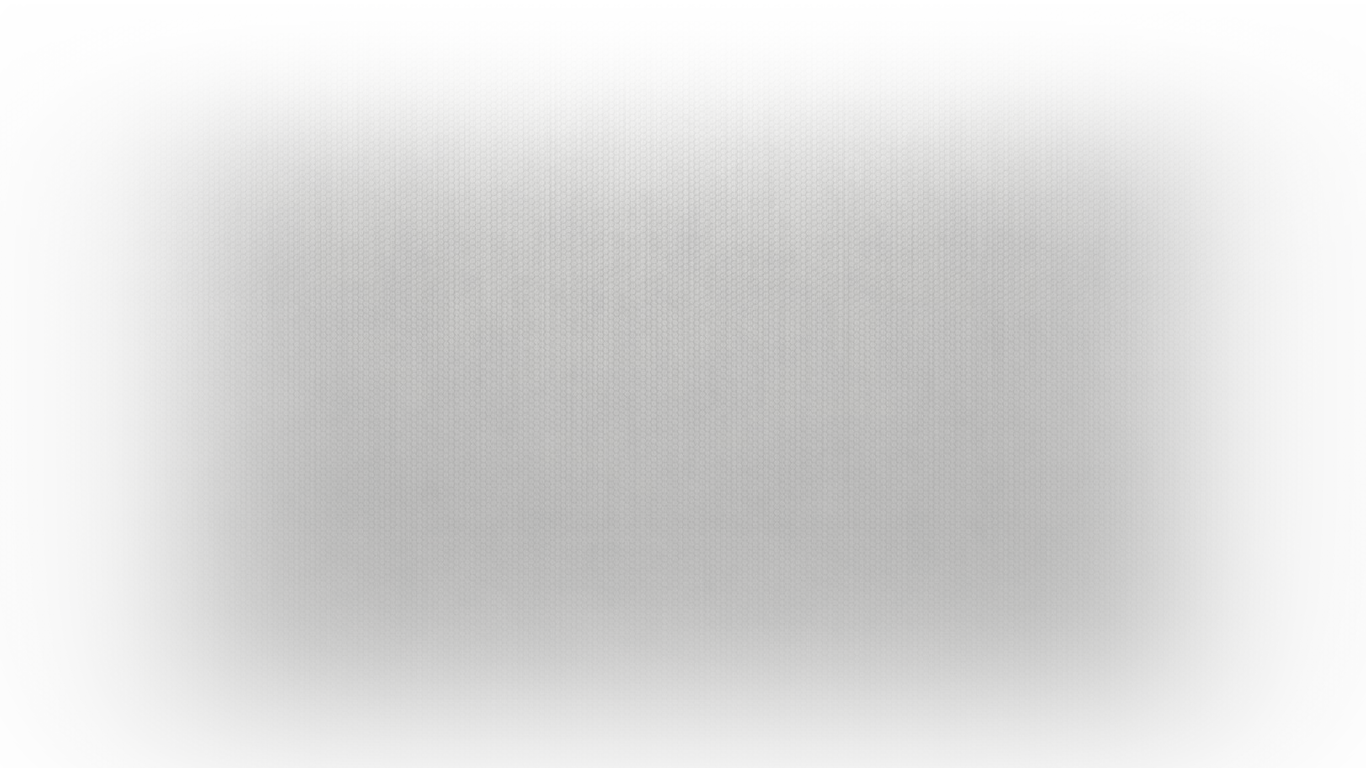
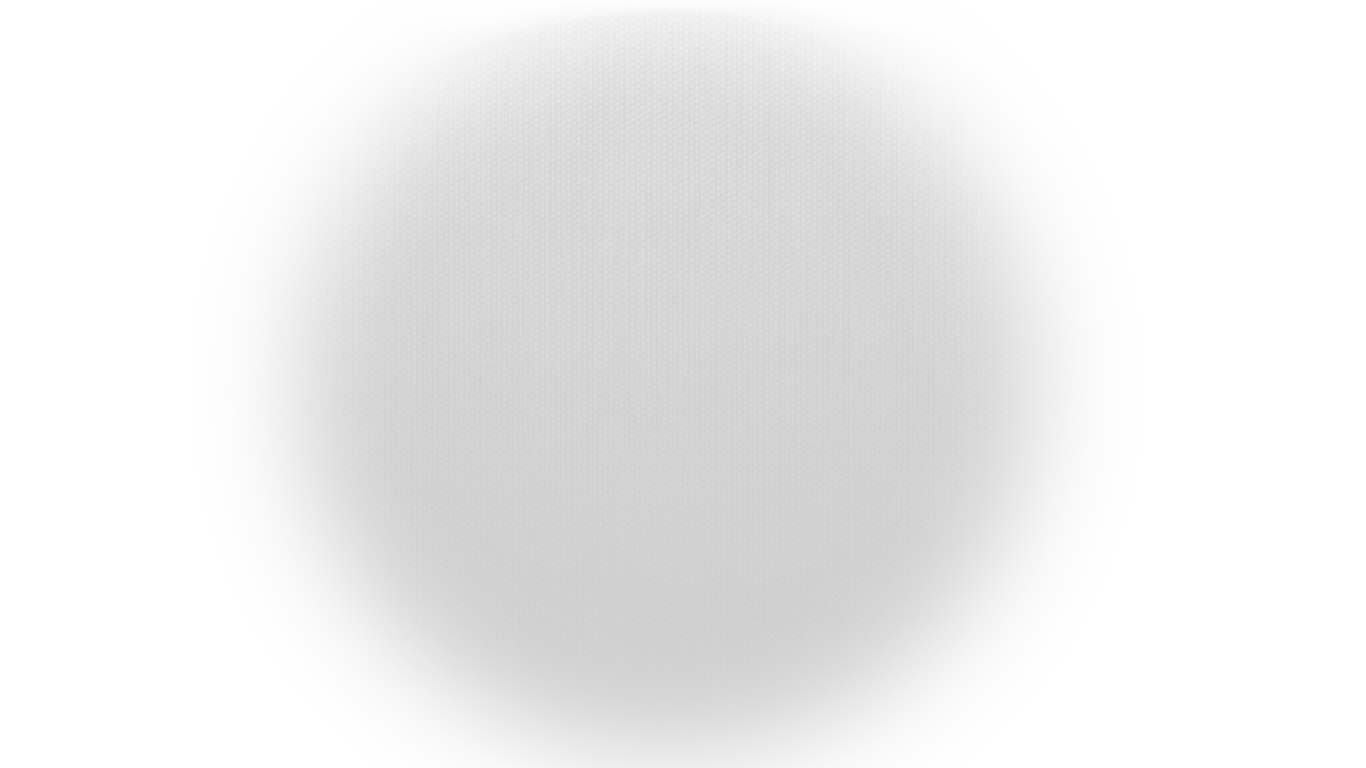
bg change

diff --git a/Hemsida C3LOOPS/Demo-slide.html b/Hemsida C3LOOPS/Demo-slide.html
@@ -214,8 +214,8 @@ height: 768px;
 position: absolute;
 top:50%;
 left:50%;
-margin-left: -683px;
-margin-top: -384px;
+margin-left: -643px;
+margin-top: -370px;
 }
 
 </style>
